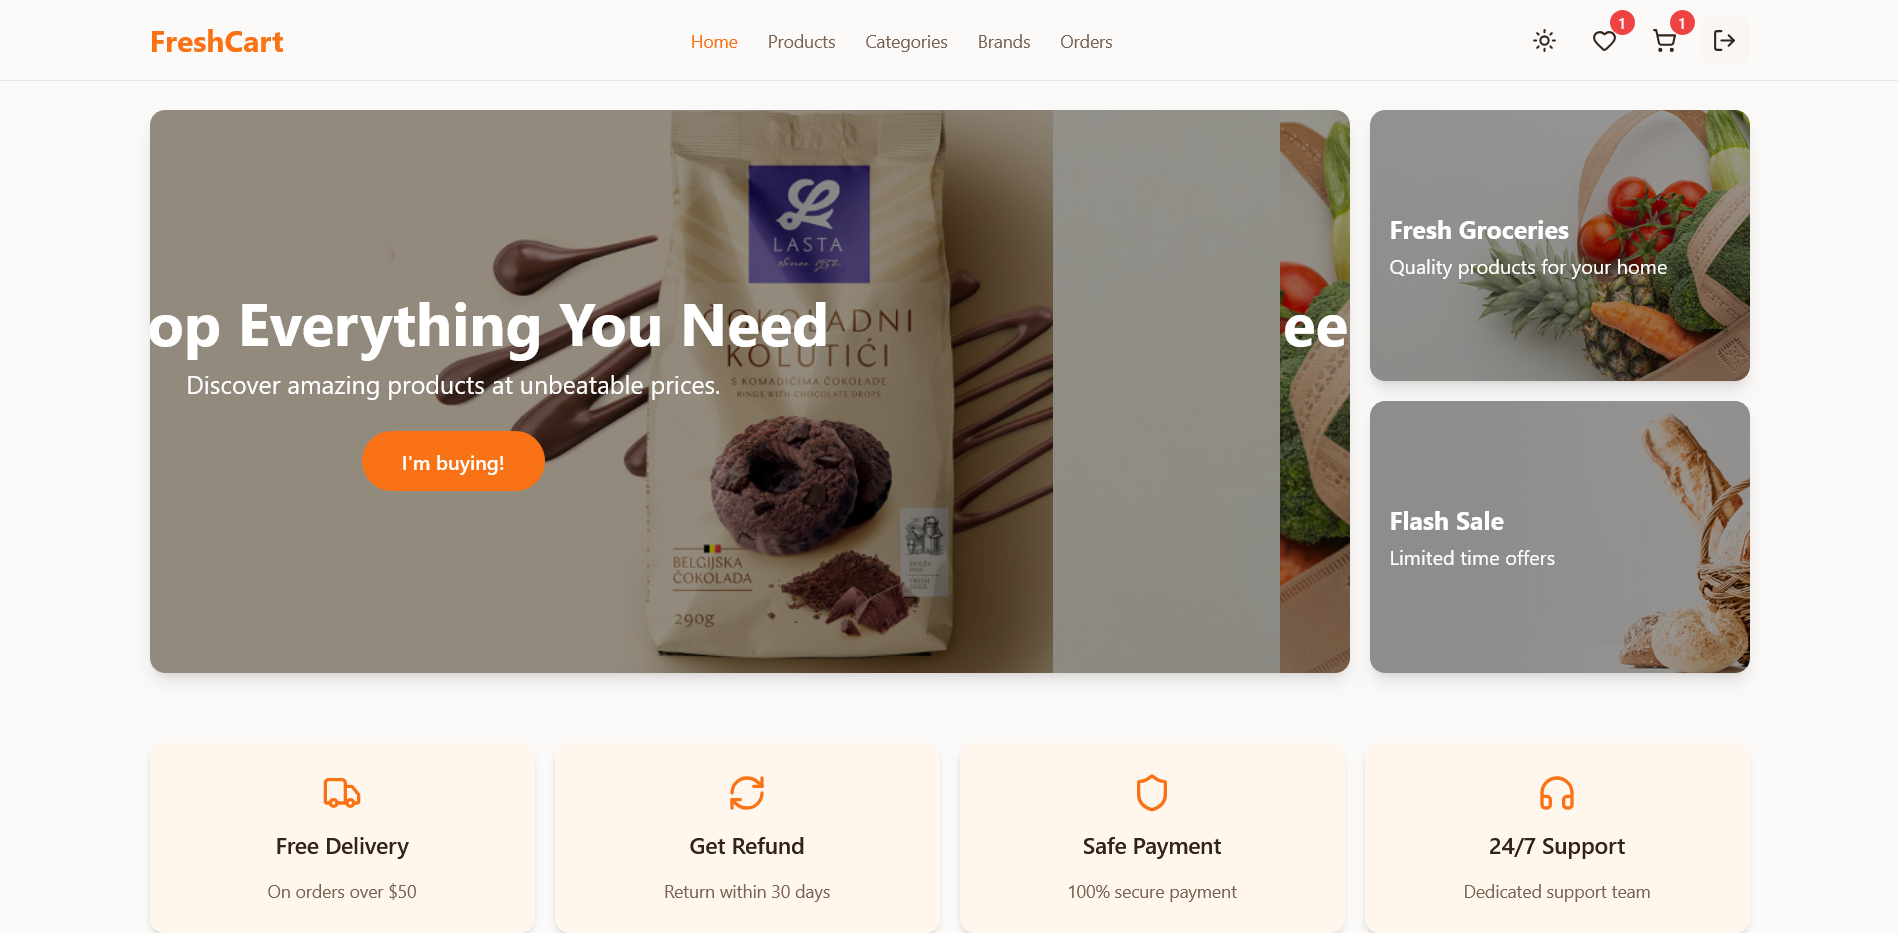
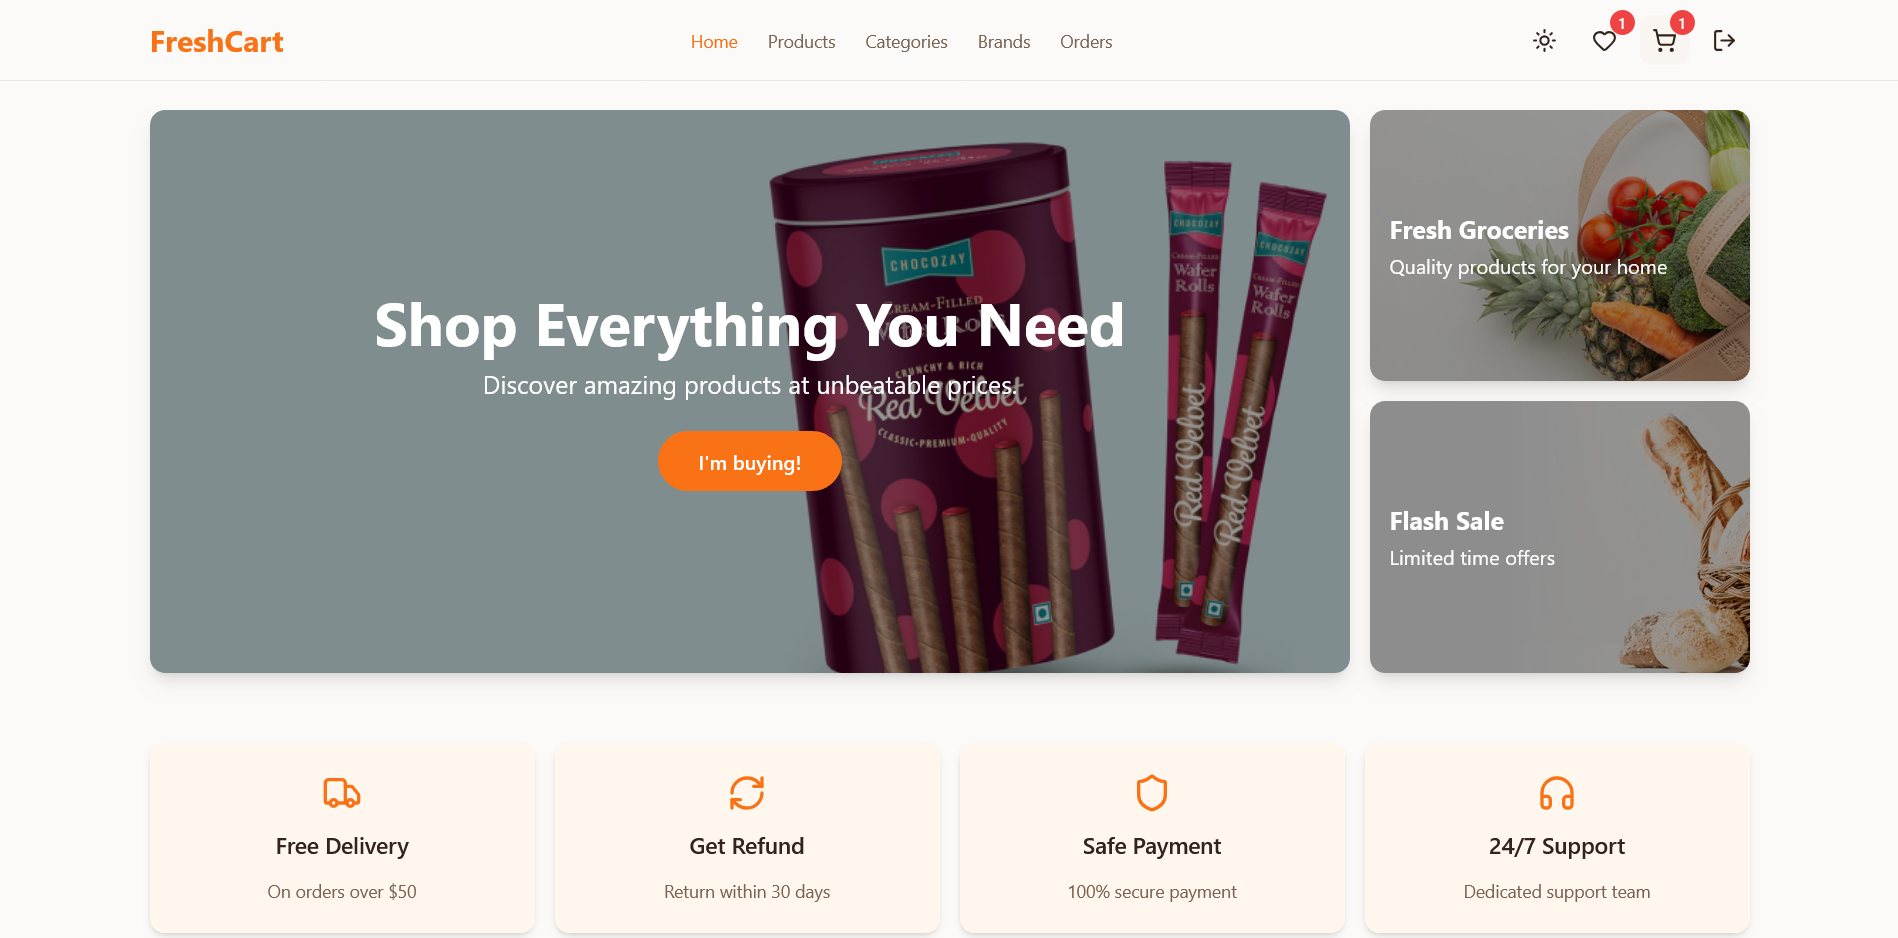
feat: add Fresh Cart project entry with detailed descriptions and associated images for enhanced project showcase

diff --git a/src/features/projects/data.ts b/src/features/projects/data.ts
@@ -29,6 +29,14 @@ import elfaredaaAbout from "@/assets/Projects/elfaredaa/Website/About.png";
 import elfaredaaServices from "@/assets/Projects/elfaredaa/Website/Services.png";
 import elfaredaaDetails from "@/assets/Projects/elfaredaa/Website/Details.png";
 import elfaredaaContact from "@/assets/Projects/elfaredaa/Website/Contact.png";
+import freshCartBanner from "@/assets/Projects/fresh-cart/Website/Bannar.png";
+import freshCartHome from "@/assets/Projects/fresh-cart/Website/Home.png";
+import freshCartCategories from "@/assets/Projects/fresh-cart/Website/Categories.png";
+import freshCartProducts from "@/assets/Projects/fresh-cart/Website/Products.png";
+import freshCartCart from "@/assets/Projects/fresh-cart/Website/Cart.png";
+import freshCartOrders from "@/assets/Projects/fresh-cart/Website/Orders.png";
+import freshCartLogin from "@/assets/Projects/fresh-cart/Website/Login.png";
+import freshCartRegister from "@/assets/Projects/fresh-cart/Website/Register.png";
 
 export type Project = {
   slug: string;
@@ -152,6 +160,37 @@ export const projects: Project[] = [
     featured: true,
     github: "https://github.com/ZiadElsayed01/ElfareedaKW",
     demo: "https://elfareeda-kw.vercel.app/",
+  },
+  {
+    slug: "fresh-cart",
+    title: "FreshCart",
+    year: "2026",
+    description: {
+      en: "A full-featured e-commerce platform with product catalog, shopping cart, order management, and user authentication.",
+      ar: "منصة تجارة إلكترونية متكاملة مع كتالوج منتجات، سلة تسوق، إدارة الطلبات، ومصادقة المستخدمين.",
+    },
+    longDescription: {
+      en: "A comprehensive e-commerce application built with Next.js 16, React 19, and TypeScript. Features include product browsing by categories, shopping cart functionality, order management, user registration and login, and a responsive modern UI. The platform is designed to provide a seamless shopping experience with fast performance and intuitive navigation. Built with Tailwind CSS and Shadcn UI for a clean, professional appearance.",
+      ar: "تطبيق تجارة إلكترونية شامل مُبني بـ Next.js 16 وReact 19 وTypeScript. تشمل الميزات تصفح المنتجات حسب الفئات، وظيفة سلة التسوق، إدارة الطلبات، تسجيل المستخدمين وتسجيل الدخول، وواجهة مستخدم عصرية متجاوبة. المنصة مصممة لتوفير تجربة تسوق سلسة مع أداء سريع وتنقل بديهي. مُبني بـ Tailwind CSS وShadcn UI لمظهر نظيف واحترافي.",
+    },
+    technologies: ["React 19", "TypeScript", "Tailwind CSS", "Context API", "Axios"],
+    banner: freshCartBanner,
+    websiteImages: [
+      freshCartLogin,
+      freshCartRegister,
+      freshCartProducts,
+      freshCartCart,
+      freshCartHome,
+      freshCartCategories,
+      freshCartOrders,
+    ],
+    featured: true,
+    testingCredentials: {
+      en: "Email: ziadelsayed046@gmail.com / Password: Ziad100",
+      ar: "البريد الإلكتروني: ziadelsayed046@gmail.com / كلمة السر: Ziad100",
+    },
+    github: "https://github.com/ZiadElsayed01/FreshCart",
+    demo: "https://fresh-cart-route.vercel.app/login",
   },
 ];
 
